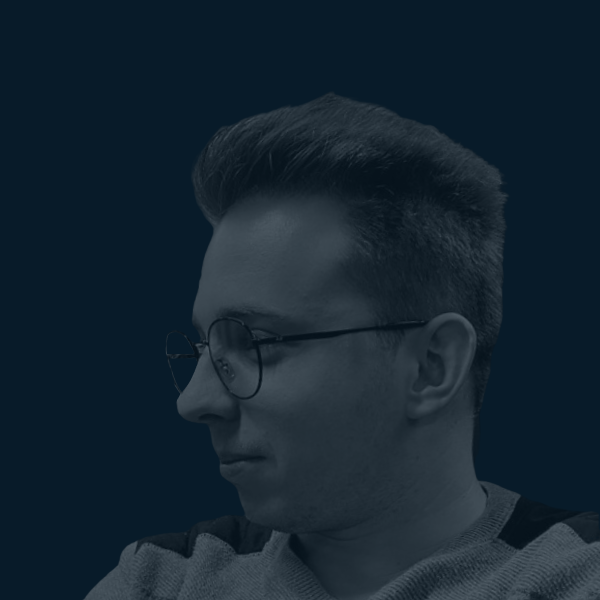
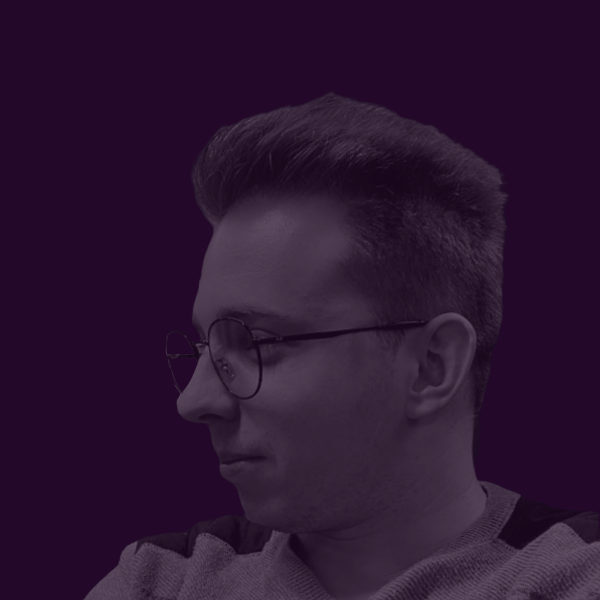
final

diff --git a/index.html b/index.html
@@ -72,7 +72,7 @@
         <h2 class="heading">About <span>Me</span></h2>
 
         <div class="about-img">
-            <img src="/images/portrait.png" alt="">
+            <img src="/images/about.png" alt="">
             <span class="circle-spin"></span>
         </div>
 

diff --git a/css/style.css b/css/style.css
@@ -15,7 +15,7 @@
     --bg-color: #240829;
     --second-bg-color: #351142;
     --text-color: #ededed;
-    --main-color: #7800F0;
+    --main-color: #9b36f4;
 
     /* --bg-color: #081b29;
     --second-bg-color: #112e42;
